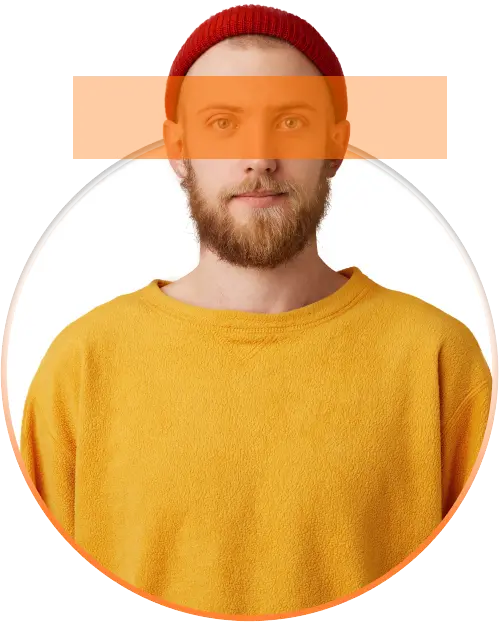
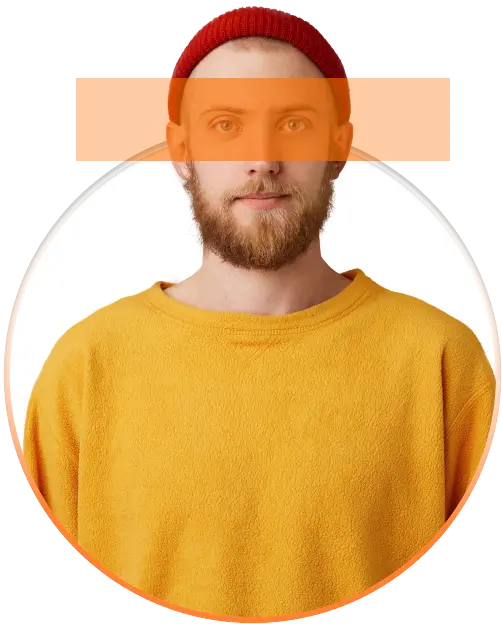
fix: made changes to the header and hero

diff --git a/src/scss/sections/home/hero.scss b/src/scss/sections/home/hero.scss
@@ -1,16 +1,18 @@
 .hero {
   padding-top: 55px;
+  padding-bottom: 27px;
 
   &__inner {
     display: flex;
-    gap: 170px;
+    gap: 161px;
   }
 
   &__information {
-    margin-top: 100px;
-    max-width: 698px;
+    padding-top: 100px;
+    max-width: 712px;
 
     &_subtitle {
+      padding-left: 9px;
       margin-bottom: 6px;
       font-family: $ff;
       font-size: 24px;
@@ -21,6 +23,7 @@
     }
 
     &_name {
+      padding-left: 4px;
       font-family: $ff;
       font-size: 32px;
       font-weight: 600;
@@ -38,33 +41,42 @@
       letter-spacing: 3px;
 
       &:nth-child(2) {
-        margin-bottom: 34px;
+        margin-bottom: 37px;
         text-align: right;
       }
     }
 
     &_description {
-      margin-bottom: 22px;
+      padding-left: 7px;
+      margin-bottom: 28px;
       font-family: $ff;
       font-size: 21px;
       font-weight: 400;
       line-height: normal;
-      letter-spacing: 0.63px;
+      letter-spacing: 1.35px;
       color: $black;
     }
   }
 
   &__image {
-    margin-bottom: 25px;
+    margin-bottom: 28px;
+    max-width: 500px;
+    max-height: 624px;
   }
 
   &__button {
-    padding: 11px 53px;
+    padding: 11px 58px;
   }
 
   &__socials {
     display: flex;
+    align-items: center;
     justify-content: center;
     gap: 25px;
+  }
+
+  &__social {
+    width: 33px;
+    height: 33px;
   }
 }

diff --git a/src/html/template-parts/sections/home/hero.html b/src/html/template-parts/sections/home/hero.html
@@ -17,16 +17,16 @@
                 <div class="hero__networks">
                     <img class="hero__image" src="img/hero/hero.png" width="538" height="617" alt="Photo">
                     <div class="hero__socials">
-                        <a href="">
+                        <a class="hero__social" href="/">
                             <img src="img/hero/facebook.svg" alt="">
                         </a>
-                        <a href="">
+                        <a class="hero__social" href="/">
                             <img src="img/hero/twitter.svg" alt="">
                         </a>
-                        <a href="">
+                        <a class="hero__social" href="/">
                             <img src="img/hero/instagram.svg" alt="">
                         </a>
-                        <a href="">
+                        <a class="hero__social" href="/">
                             <img src="img/hero/linkedin.svg" alt="">
                         </a>
                     </div>

diff --git a/src/scss/common/base.scss b/src/scss/common/base.scss
@@ -18,7 +18,7 @@ body {
 	font-size: $fs-md;
 	line-height: $lh;
 	color: $black;
-	background-color: $white
+	background-color: $white;
 }
 
 img {

diff --git a/src/scss/header/header.scss b/src/scss/header/header.scss
@@ -1,5 +1,5 @@
 .header {
-  padding-top: 56px;
+  padding-top: 61px;
   padding-bottom: 60px;
 
   &__wrapper {
